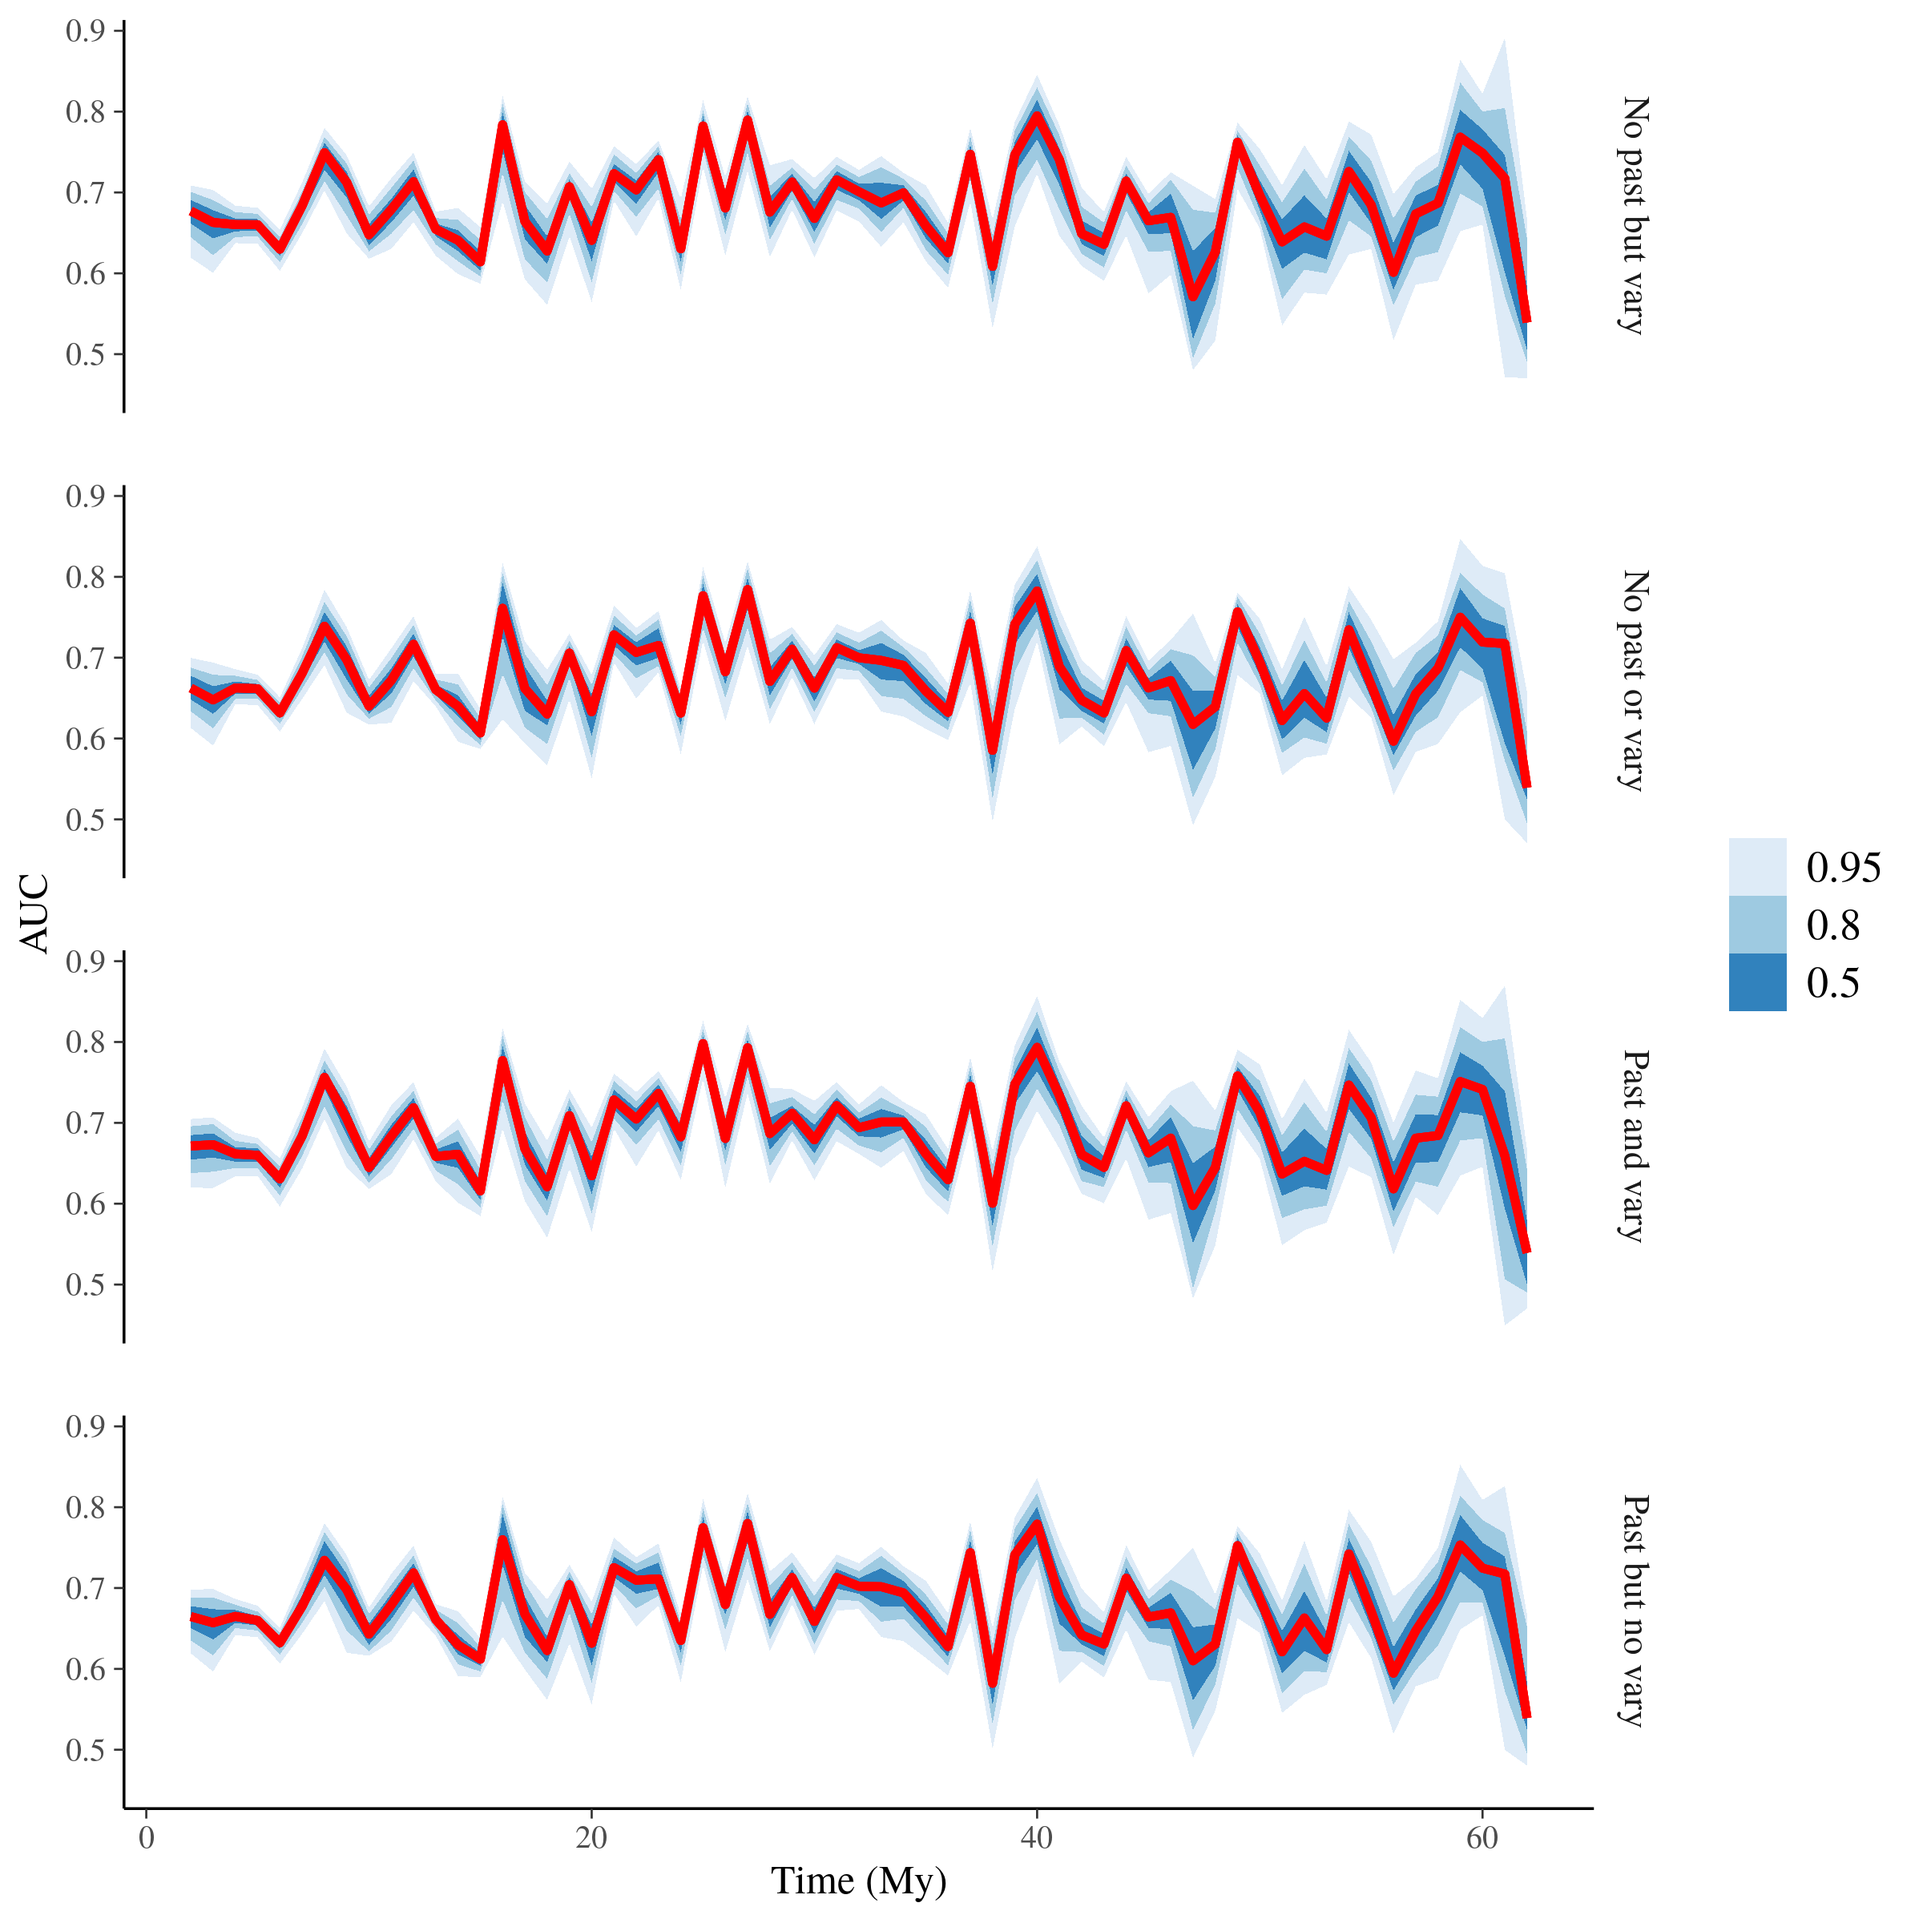
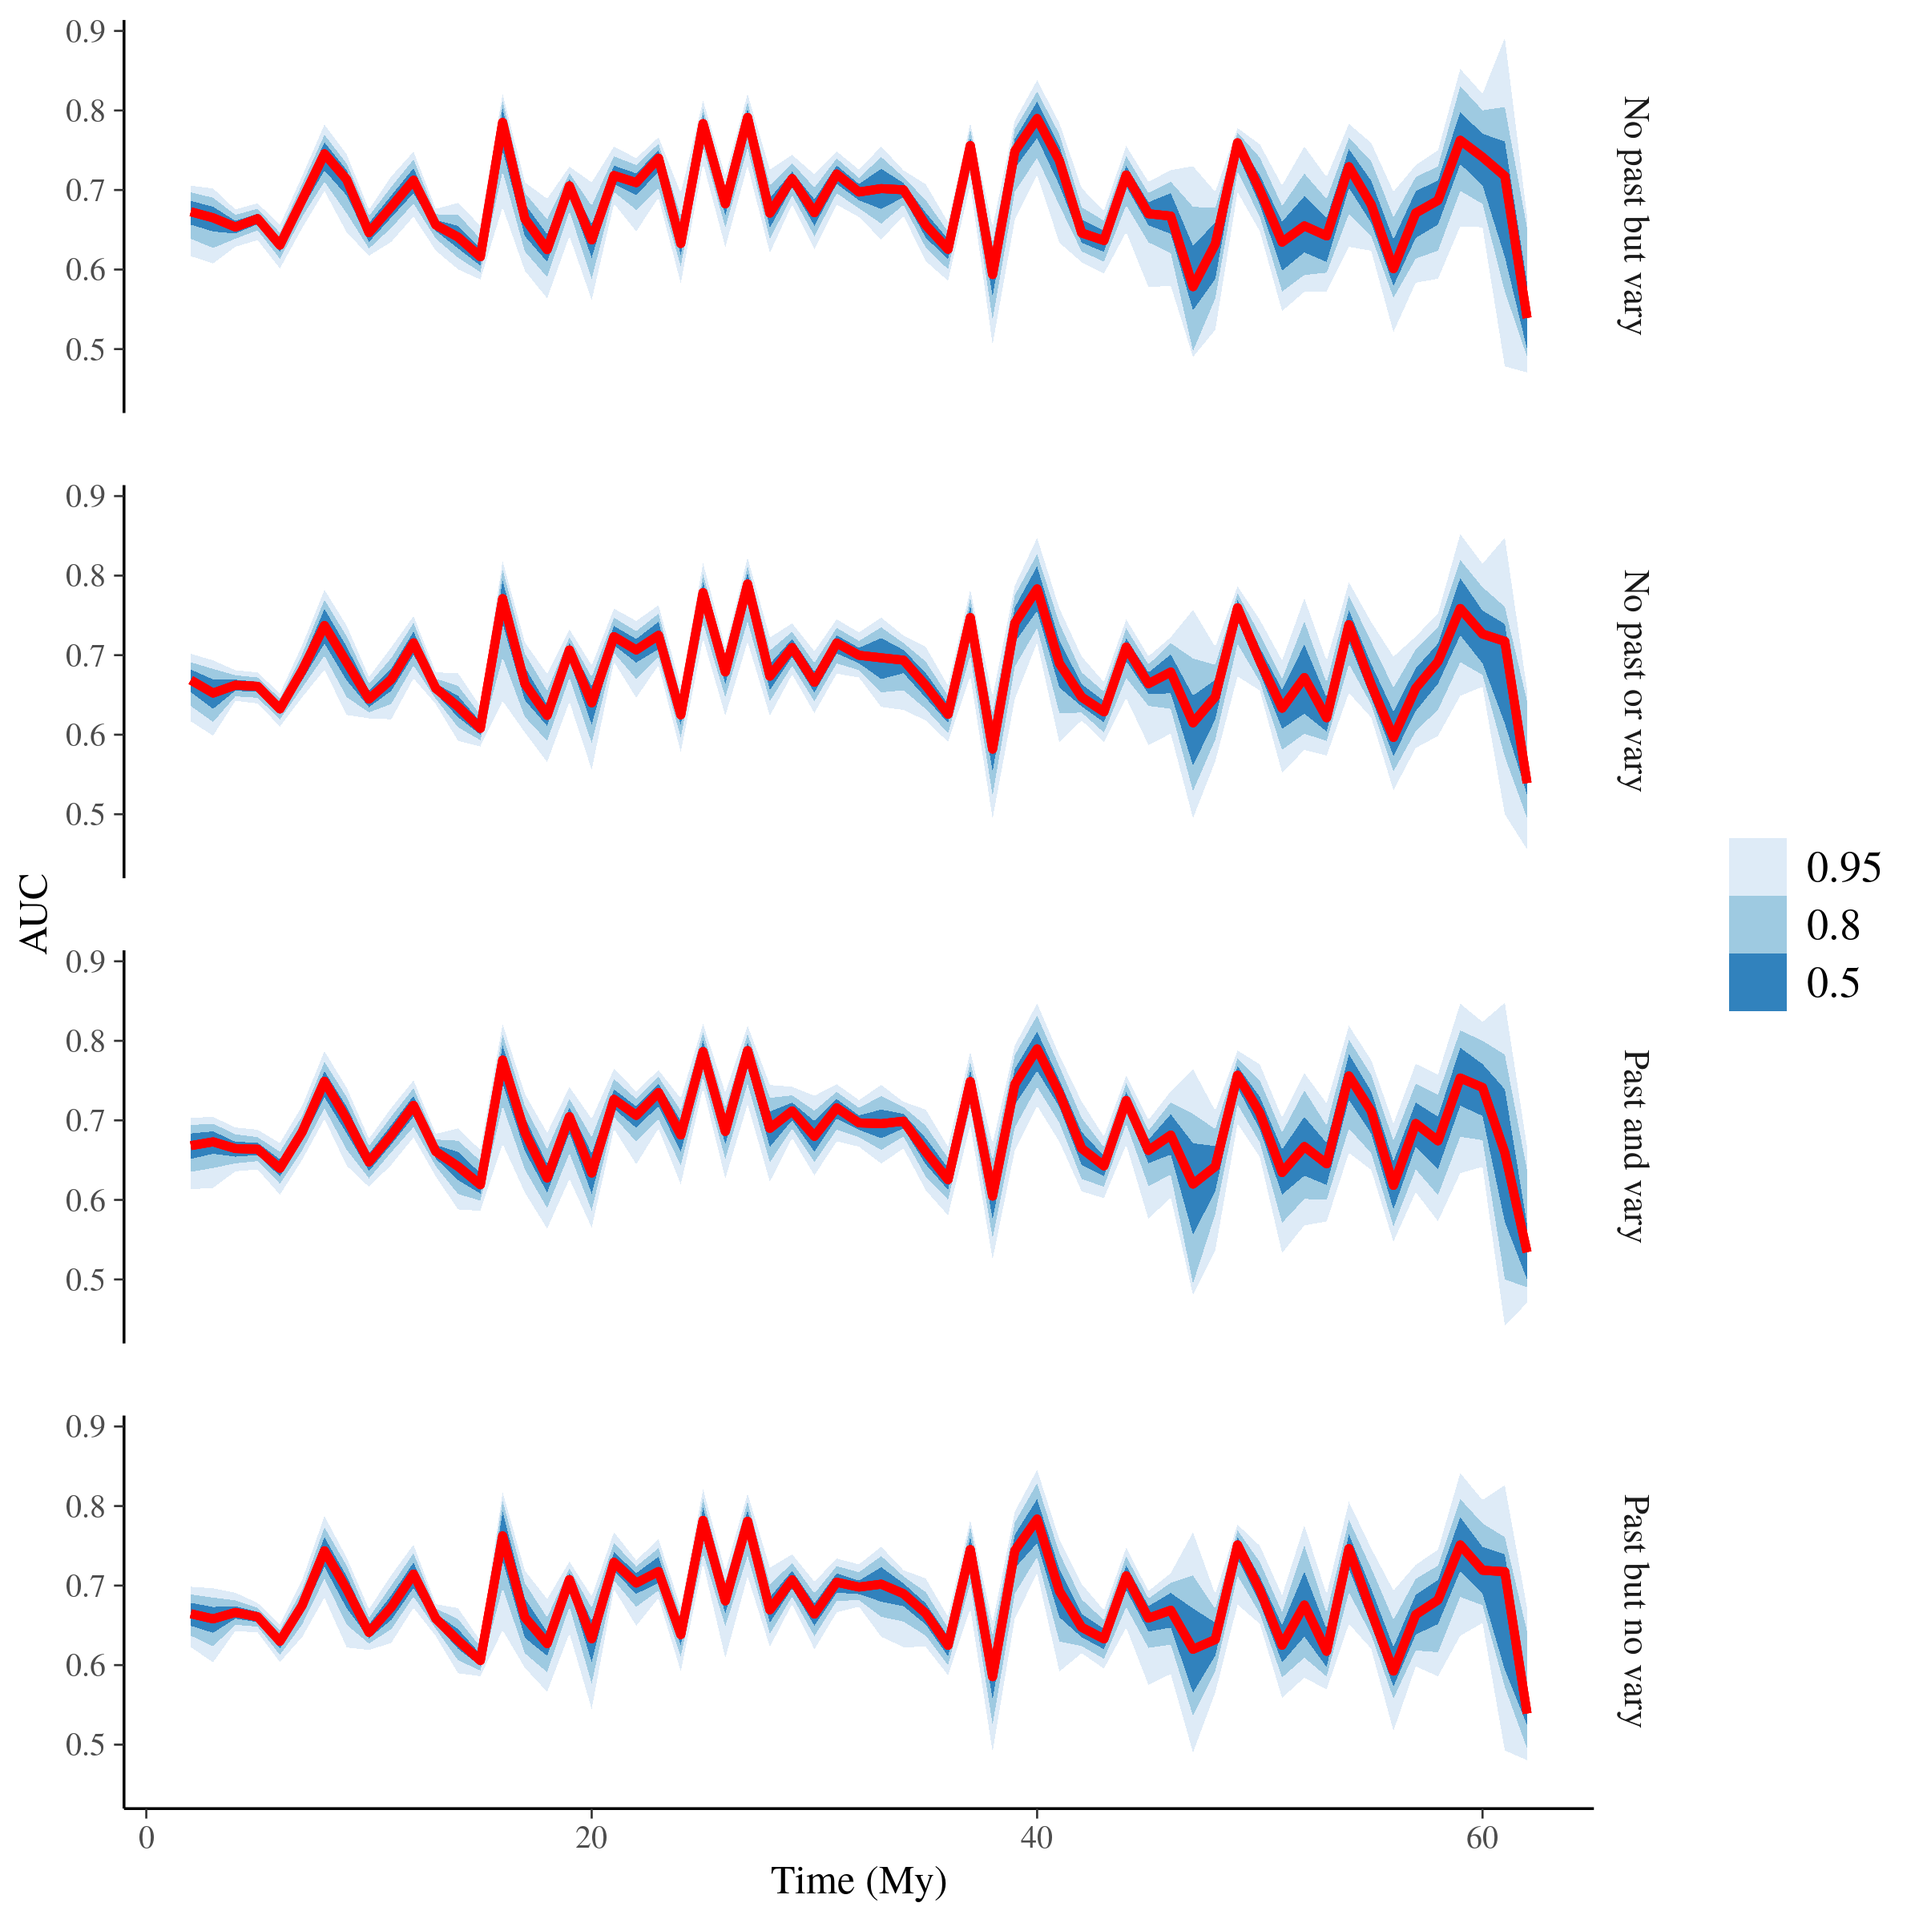
changed to lag1_maxgcd because it makes more sense to me. also the sign is logical.

diff --git a/doc/waic_tab_draft.tex b/doc/waic_tab_draft.tex
@@ -1,15 +1,15 @@
 % latex table generated in R 3.5.1 by xtable 1.8-2 package
-% Thu Sep 13 11:54:16 2018
+% Thu Sep 20 12:30:35 2018
 \begin{table}[ht]
 \centering
 \begin{tabular}{rrrrrrrr}
   \hline
  & elpd\_diff & elpd\_waic & se\_elpd\_waic & p\_waic & se\_p\_waic & waic & se\_waic \\ 
   \hline
-Past and vary & 0.00 & -6392.02 & 89.35 & 270.65 & 5.12 & 12784.04 & 178.71 \\ 
-  No past but vary & -17.49 & -6409.50 & 89.40 & 218.92 & 4.19 & 12819.01 & 178.80 \\ 
-  No past or vary & -31.48 & -6423.50 & 89.69 & 176.57 & 3.22 & 12847.00 & 179.38 \\ 
-  Past but no vary & -33.74 & -6425.76 & 89.74 & 179.69 & 3.27 & 12851.53 & 179.48 \\ 
+Past and vary & 0.00 & -6393.31 & 89.25 & 271.43 & 5.06 & 12786.63 & 178.50 \\ 
+  No past but vary & -15.21 & -6408.53 & 89.39 & 218.18 & 4.16 & 12817.05 & 178.78 \\ 
+  Past but no vary & -27.79 & -6421.11 & 89.63 & 177.84 & 3.25 & 12842.22 & 179.26 \\ 
+  No past or vary & -30.02 & -6423.33 & 89.67 & 176.29 & 3.22 & 12846.66 & 179.35 \\ 
    \hline
 \end{tabular}
 \end{table}

diff --git a/doc/loo_tab_draft.tex b/doc/loo_tab_draft.tex
@@ -1,15 +1,15 @@
 % latex table generated in R 3.5.1 by xtable 1.8-2 package
-% Thu Sep 13 11:47:46 2018
+% Thu Sep 20 12:24:05 2018
 \begin{table}[ht]
 \centering
 \begin{tabular}{rrrrrrrr}
   \hline
  & elpd\_diff & elpd\_loo & se\_elpd\_loo & p\_loo & se\_p\_loo & looic & se\_looic \\ 
   \hline
-Past and vary & 0.00 & -6394.22 & 89.39 & 272.85 & 5.16 & 12788.45 & 178.77 \\ 
-  No past but vary & -16.83 & -6411.05 & 89.42 & 220.46 & 4.22 & 12822.10 & 178.85 \\ 
-  No past or vary & -30.44 & -6424.67 & 89.71 & 177.74 & 3.24 & 12849.34 & 179.42 \\ 
-  Past but no vary & -32.73 & -6426.95 & 89.76 & 180.88 & 3.29 & 12853.90 & 179.51 \\ 
+Past and vary & 0.00 & -6395.42 & 89.28 & 273.53 & 5.10 & 12790.84 & 178.57 \\ 
+  No past but vary & -14.66 & -6410.08 & 89.41 & 219.73 & 4.18 & 12820.15 & 178.82 \\ 
+  Past but no vary & -26.87 & -6422.29 & 89.65 & 179.01 & 3.27 & 12844.57 & 179.29 \\ 
+  No past or vary & -29.08 & -6424.50 & 89.69 & 177.46 & 3.24 & 12849.00 & 179.38 \\ 
    \hline
 \end{tabular}
 \end{table}
